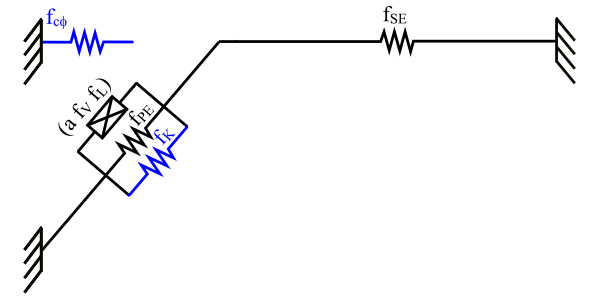
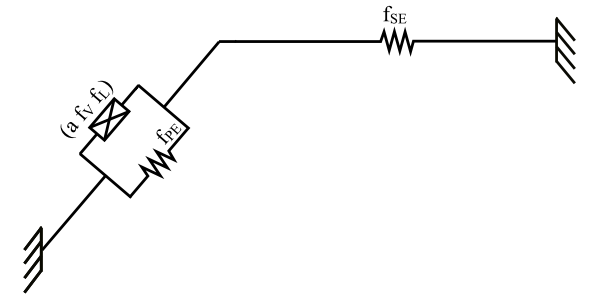
1. Millard2012AccelerationMuscle: caught a lurking 'ensureMuscleUpToDate' in computeActuation. 2. Millard2012EquilibriumMuscle figure updated to reflect the model change - the lower bound is enforced using a unilateral constraint rather than a penalty method.
git-svn-id: https://simtk.org/svn/opensim/Trunk@7504 551e70df-b0f6-0310-80ee-9b1508f7454c

diff --git a/OpenSim/Actuators/Millard2012AccelerationMuscle.cpp b/OpenSim/Actuators/Millard2012AccelerationMuscle.cpp
@@ -755,11 +755,12 @@ double Millard2012AccelerationMuscle::
 double  Millard2012AccelerationMuscle::
     computeActuation(const SimTK::State& s) const
 {    
+    //ensureMuscleUpToDate();
     SimTK_ASSERT(isObjectUpToDateWithProperties()==true,
         "Millard2012AccelerationMuscle: Muscle is not"
         " to date with properties");
 
-    ensureMuscleUpToDate();
+    
     const MuscleDynamicsInfo& mdi = getMuscleDynamicsInfo(s);
     setForce(s,         mdi.tendonForce);
     return( mdi.tendonForce );
